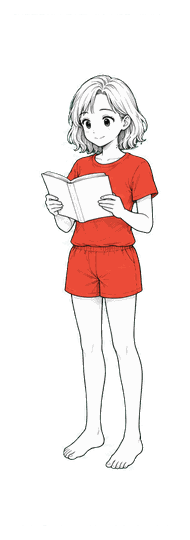
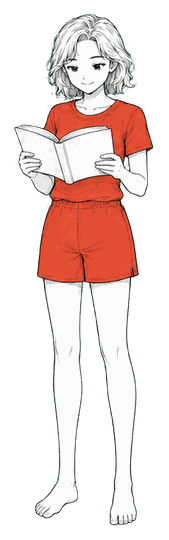
Recast Aki & Beni adult action sprites as adults (v264)
Replace the child-reading female action poses with the regenerated
adult-proportioned versions (Aki red, Beni amber), matching the men.
Same filenames, cache bump so clients pick up the new art.

NOTE: aki-adult.png / beni-adult.png standing sprites still read young —
their adult standing references are pending to finish the recast.

Claude-Session: https://claude.ai/code/session_017cTU4iZZFsn4ihtc7FXgZm

Changed region(s): [[0.0888, 0.0, 0.9172, 0.9778], [0.2959, 0.5926, 0.355, 0.7407], [0.2071, 0.9185, 0.3254, 0.9778]]

diff --git a/index.html b/index.html
@@ -16,12 +16,12 @@
     <link rel="preconnect" href="https://fonts.googleapis.com" />
     <link rel="preconnect" href="https://fonts.gstatic.com" crossorigin />
     <link href="https://fonts.googleapis.com/css2?family=Mochiy+Pop+One&family=Zen+Maru+Gothic:wght@500;700;900&family=IBM+Plex+Mono:wght@500;600&family=Zen+Kaku+Gothic+New:wght@400;500;700&display=swap" rel="stylesheet" />
-    <link rel="stylesheet" href="styles.css?v=263" />
-    <link rel="stylesheet" href="theme.css?v=263" />
-    <link rel="stylesheet" href="ui-polish.css?v=263" />
-    <link rel="stylesheet" href="subway.css?v=263" />
-    <link rel="stylesheet" href="interactive-learning.css?v=263" />
-    <link rel="stylesheet" href="stampbook.css?v=263" />
+    <link rel="stylesheet" href="styles.css?v=264" />
+    <link rel="stylesheet" href="theme.css?v=264" />
+    <link rel="stylesheet" href="ui-polish.css?v=264" />
+    <link rel="stylesheet" href="subway.css?v=264" />
+    <link rel="stylesheet" href="interactive-learning.css?v=264" />
+    <link rel="stylesheet" href="stampbook.css?v=264" />
     <link rel="preload" as="image" href="assets/story/mochiko-think.png" />
   </head>
   <body>
@@ -425,14 +425,14 @@
       </footer>
     </main>
 
-    <script src="lessons.js?v=263"></script>
-    <script src="kana.js?v=263"></script>
-    <script src="emoji.js?v=263"></script>
-    <script src="app.js?v=263"></script>
-    <script src="interactive-learning.js?v=263"></script>
-    <script src="stampbook.js?v=263"></script>
-    <script src="theme.js?v=263"></script>
+    <script src="lessons.js?v=264"></script>
+    <script src="kana.js?v=264"></script>
+    <script src="emoji.js?v=264"></script>
+    <script src="app.js?v=264"></script>
+    <script src="interactive-learning.js?v=264"></script>
+    <script src="stampbook.js?v=264"></script>
+    <script src="theme.js?v=264"></script>
     <!-- collection.js (stamps) removed for now — owner, 2026-07 -->
-    <script src="ui-polish.js?v=263"></script>
+    <script src="ui-polish.js?v=264"></script>
   </body>
 </html>

diff --git a/sw.js b/sw.js
@@ -1,6 +1,6 @@
 // Service worker — offline app shell for the Hanasou PWA.
 // Bump CACHE when the precached shell list changes to evict the old cache.
-const CACHE = "hanasou-v263";
+const CACHE = "hanasou-v264";
 const SHELL = [
   "./",
   "index.html",
